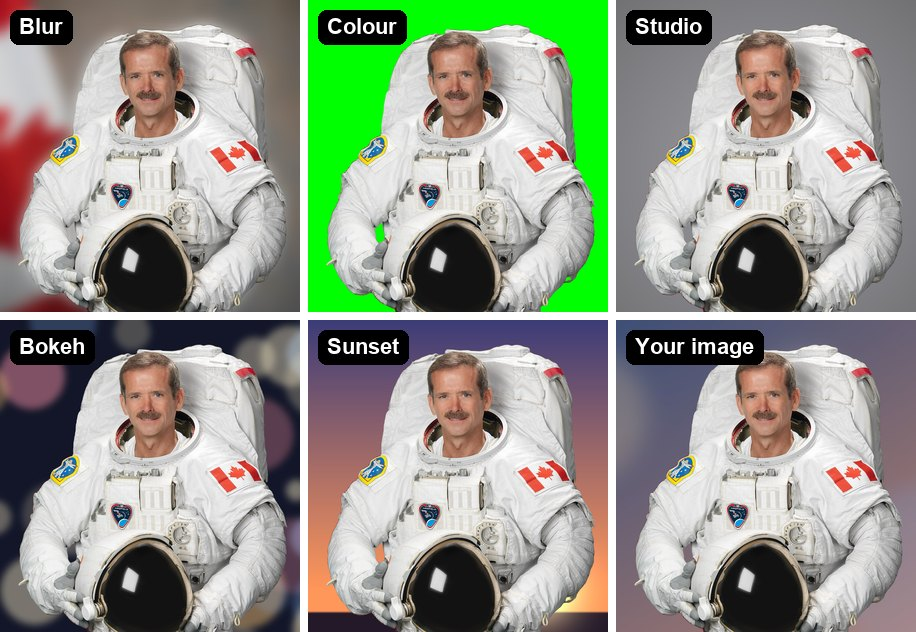
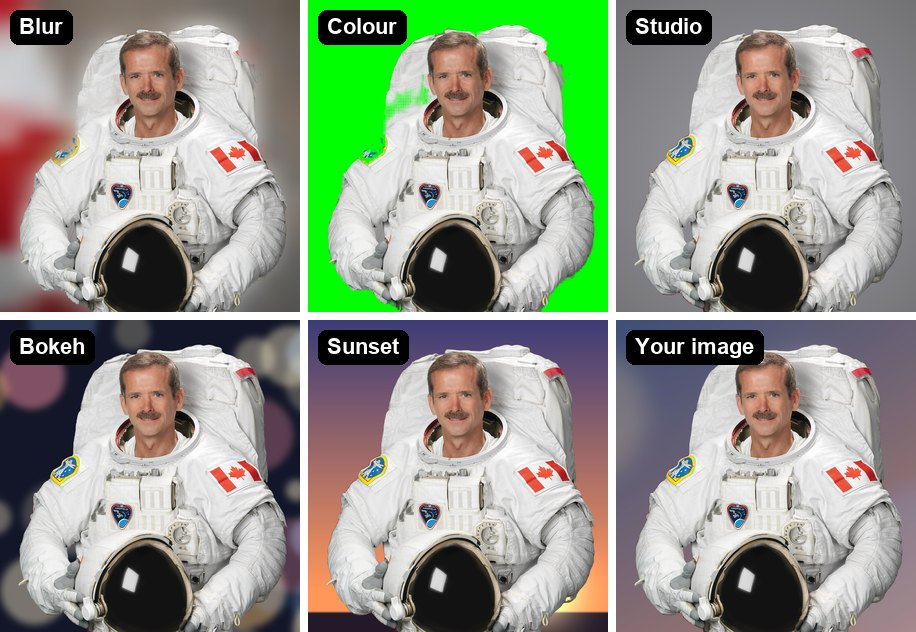
README, changelog and images for 0.3.0

diff --git a/README.md b/README.md
@@ -78,7 +78,7 @@ camera ─┬─► smooth + brighten ─► makeup ─► face shape ─► bac
 | | Windows, Linux | macOS |
 | --- | --- | --- |
 | Face analysis | Google's MediaPipe face detection, face mesh and selfie segmentation on [ONNX Runtime](https://onnxruntime.ai), CPU | Apple's Vision framework, built into macOS |
-| Effects | the same GPU shaders in OBS's effect language: Direct3D 11 on Windows, OpenGL on macOS and Linux | |
+| Effects | the same GPU shaders in OBS's effect language: Direct3D 11 on Windows, OpenGL on Linux, OpenGL or Metal on macOS | |
 
 The models' sources and checks are in [data/models/PROVENANCE.md](data/models/PROVENANCE.md):
 the face models were converted from Google's official files and match them to about one part
@@ -94,7 +94,7 @@ platform (no window; [tests/run_tests.py](tests/run_tests.py)):
 | Windows x64 and ARM64 | 33.0.3, official release | Direct3D 11 |
 | Linux x86_64 | newest, OBS Project PPA | OpenGL (Mesa) |
 | Linux ARM64 | **30.0.2**, Ubuntu's own package: the oldest supported | OpenGL (Mesa) |
-| macOS (Apple silicon) | 33.0.3, official release | OpenGL; Vision and ONNX backends both tested |
+| macOS (Apple silicon) | 33.0.3, official release | OpenGL and Metal; Vision and ONNX backends |
 
 The checks include: with every effect off the picture is unchanged to the pixel; the face is
 found; smoothing halves skin detail and leaves the background alone; brightening keeps skin's

diff --git a/CHANGELOG.md b/CHANGELOG.md
@@ -8,6 +8,11 @@
 - **Works in OBS 30, 31, 32 and 33.** 0.1.0 and 0.2.0 were built against OBS 33's libobs, which
   older OBS versions refuse to load, and used an image API that only exists in OBS 33. The plugin
   is now built against libobs 30.0 and decodes images itself.
+- Works with OBS's new Metal renderer on macOS as well as OpenGL.
+- Background blur rebuilt as a dual-filter chain (half-size steps down, bilinear steps up): it
+  renders the same on Direct3D, OpenGL and Metal.
+- With every effect off, or compare held, the filter steps aside: exactly what OBS shows without
+  it, at no cost.
 - Stickers blend with straight alpha, so their edges are no longer darkened.
 - The settings show why face analysis is unavailable instead of silently doing nothing.
 - Fixed a crash when the lips outline had more points than expected.
